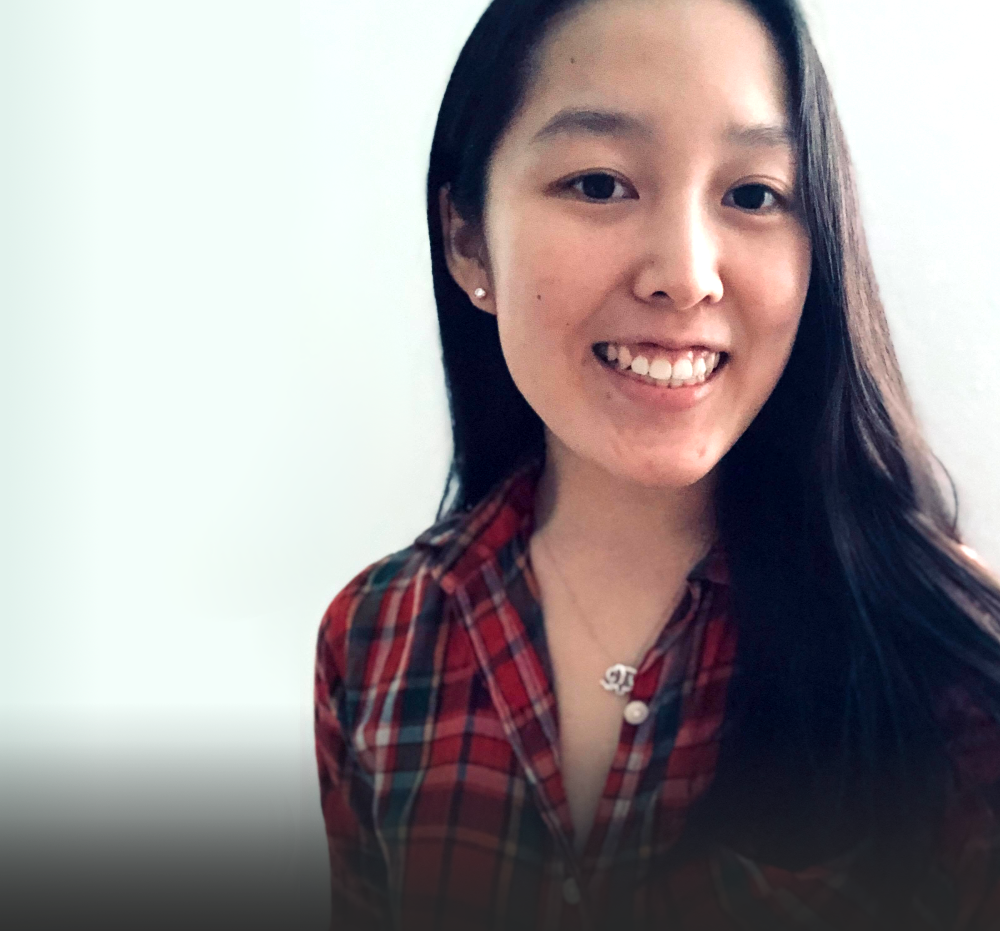
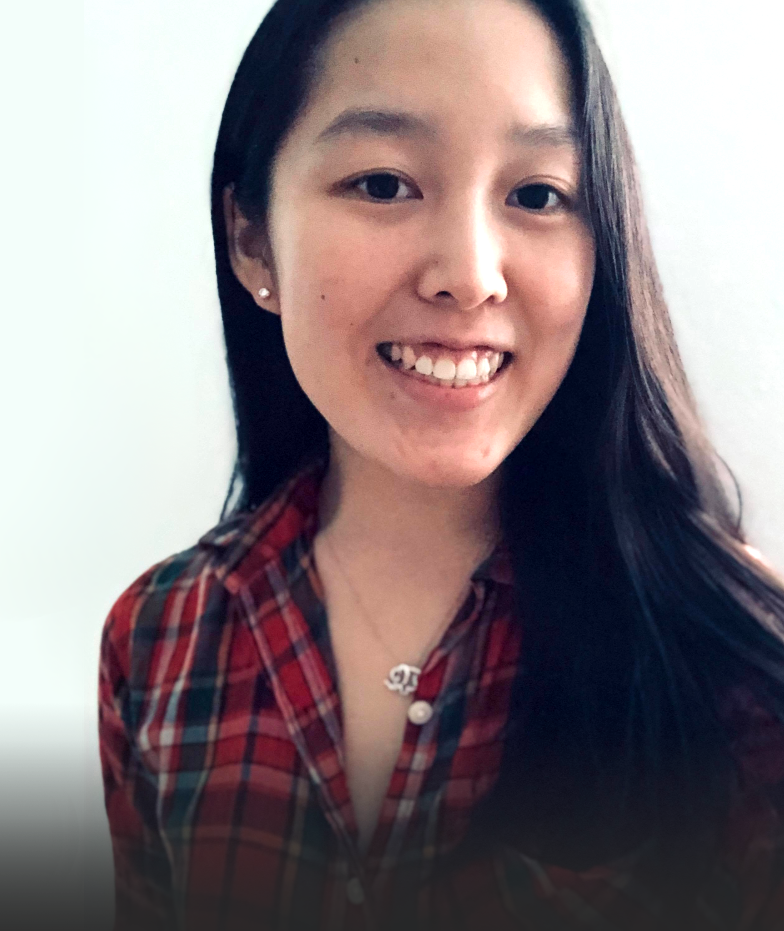
Updated curvature of images, edited margins on aboutme, altered subtitle text on home

diff --git a/aboutme.html b/aboutme.html
@@ -18,7 +18,7 @@
 	<div class="page-container" style="margin-bottom: 0">
 		<div class="about-container">
 			<div class="about-floated">
-				<img src="images/profile.png" style="height: 17em; border-top-left-radius: 80%;" />
+				<img src="images/profile.png" style="height: 17em; border-top-left-radius: 100px;" />
 			</div>
 
 			<span style="text-align: left">
@@ -32,7 +32,7 @@
 		</div>
 
 		<div class="about-text-container">
-			<br/><p style="text-align: left">I'm a senior pursuing a B.S. in engineering with a concentration in computing at Olin College of Engineering in Needham, MA. I'm from Tacoma, WA, and I have also lived and worked in Portland, OR and Newark, NJ. My main programming language is Java, but I've also recently worked on projects in C and Python. I enjoy designing websites, and I've made several for projects, friends, family, and faculty. This website was built from scratch using HTML/CSS and a hint of JavaScript. I've built other sites using React and JavaScript, as well as with microframeworks like Flask.<br/><br/>
+			<p style="text-align: left">I'm a senior pursuing a B.S. in engineering with a concentration in computing at Olin College of Engineering in Needham, MA. I'm from Tacoma, WA, and I have also lived and worked in Portland, OR and Newark, NJ. My main programming language is Java, but I've also recently worked on projects in C and Python. I enjoy designing websites, and I've made several for projects, friends, family, and faculty. This website was built from scratch using HTML/CSS and a hint of JavaScript. I've built other sites using React and JavaScript, as well as with microframeworks like Flask.<br/><br/>
 
 			At work I'm a team player who is always enthusiastic and positive, a tenacious worker who can't give up on a problem before she has truly tried everything, and a lifelong student who is always learning and improving. In my free time I'm an avid reader, a musician and music appreciator, a short-distance runner, a graphic designer, and a mixed media artist.
 

diff --git a/index.html b/index.html
@@ -19,14 +19,13 @@
 		<div class="center-page">
 			<div class="home-container">
 				<div class="home-floated">
-					<img style="height: 25em; border-top-left-radius: 80%;" src="images/fascinator.png" />
+					<img style="height: 25em; border-top-left-radius: 100px;" src="images/fascinator.png" />
 				</div>
 
 				<span style="text-align: left;">
 					<h1>emily <span style="color: #fdca3b">yeh</span></h1>
 
-					<h3><em><span style="color: darkgray">software developer &</span></em></h3>
-					<h3><em><span style="color: darkgray">website designer</span></em></h3>
+					<h3><em><span style="color: darkgray; font-size: smaller;">Software developer & website designer</span></em></h3>
 
 					<br/>
 					<h3>Hello! I'm a senior at Olin College of Engineering and this is my personal website.
@@ -34,9 +33,9 @@
 
 					<br/>
 					<h3>
-						<span style="color: darkgray">></span> <a href="portfolio.html" style="font-size: smaller">explore my portfolio</a>
+						<span style="color: darkgray">></span> <a href="portfolio.html" style="font-size: smaller">Explore my portfolio</a>
 						<br/>
-						<span style="color: darkgray">></span> <a href="aboutme.html" style="font-size: smaller">learn more about me</a>
+						<span style="color: darkgray">></span> <a href="aboutme.html" style="font-size: smaller">Learn more about me</a>
 					</h3>
 			</div>
 		</div>

diff --git a/stylesheets/stylesheet.css b/stylesheets/stylesheet.css
@@ -114,21 +114,22 @@ div.home-floated {
 div.about-container {
     width: 43em;
     display: inline-block;
-    margin: none;
+    margin: auto;
     visibility: visible;
 }
 
 div.about-text-container {
-    width: 43em;
+    width: 41em;
     margin-left: auto;
     margin-right: auto;
     margin-bottom: 5%;
     text-align: center;
+    padding: 1em;
 }
 
 div.about-floated {
     float: left;
-    width: 22em;
+    width: 19em;
 }
 
 div.page-container {
